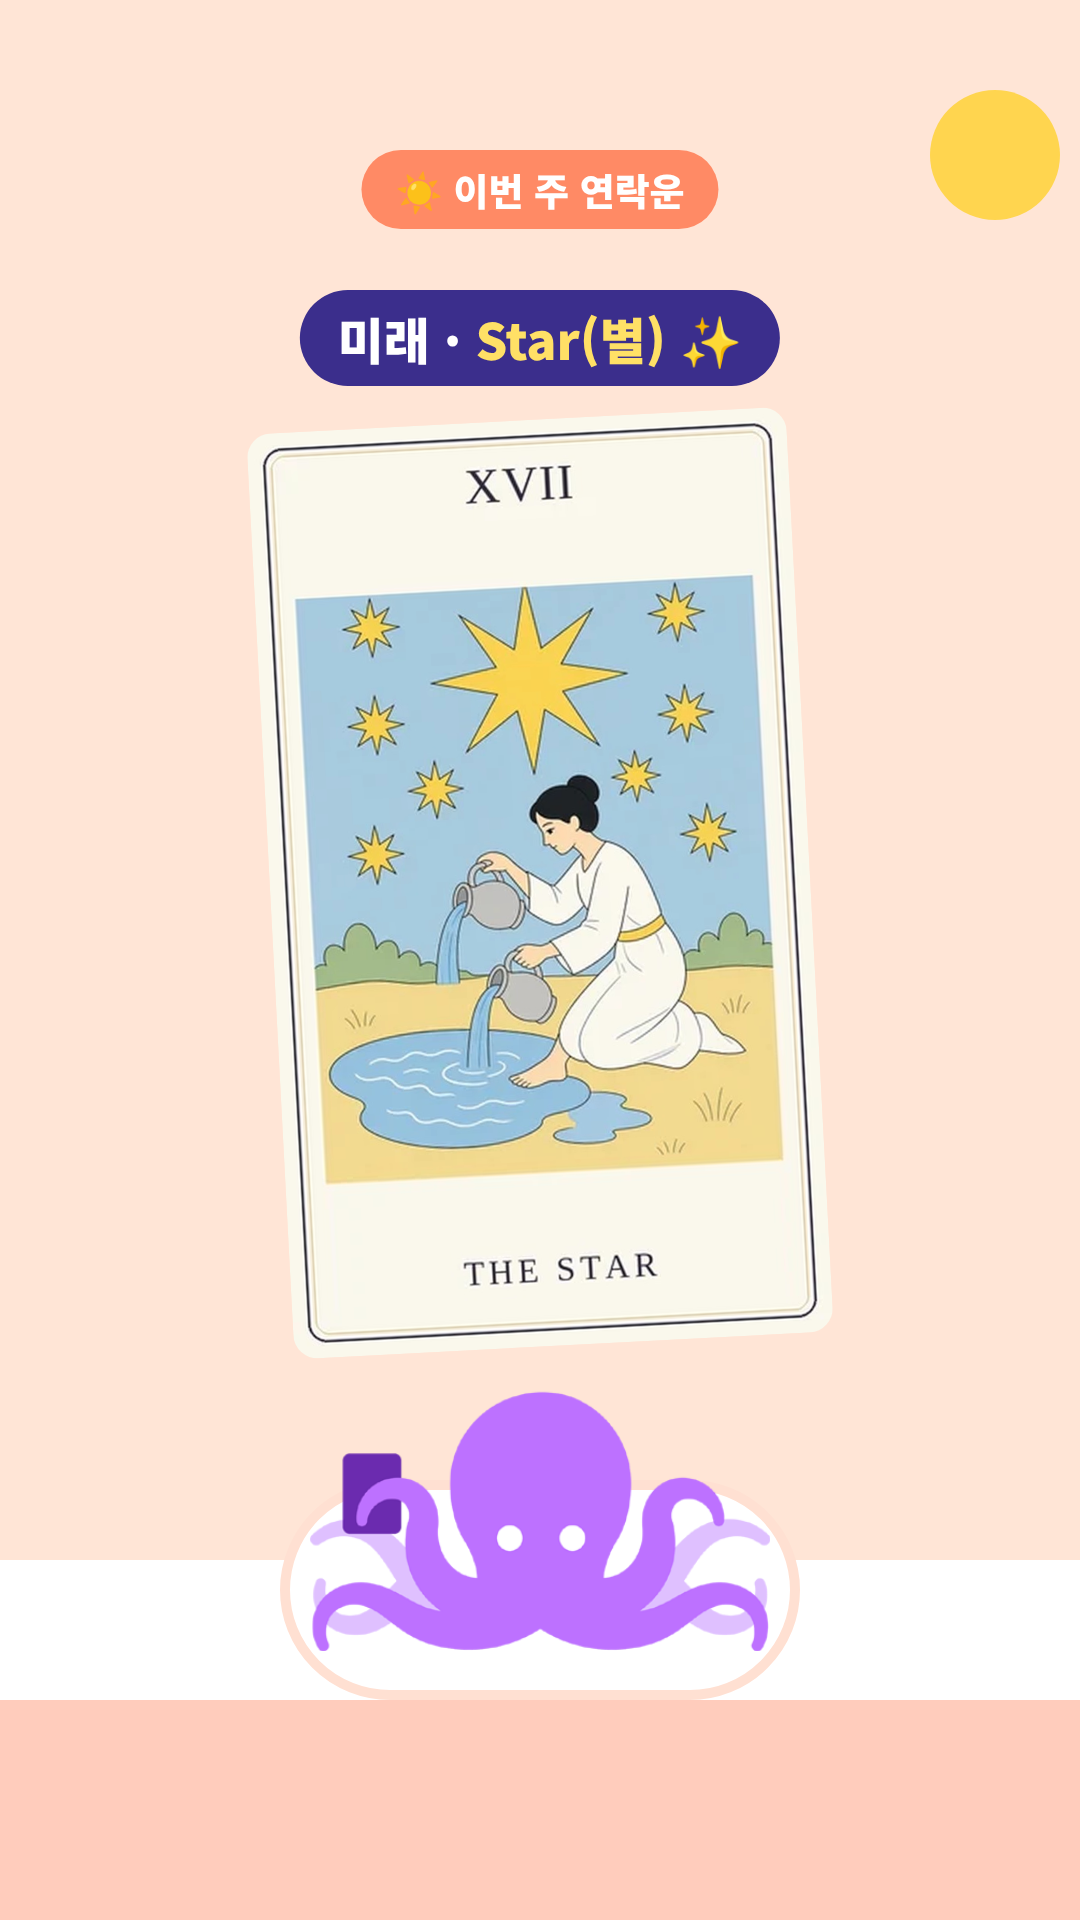
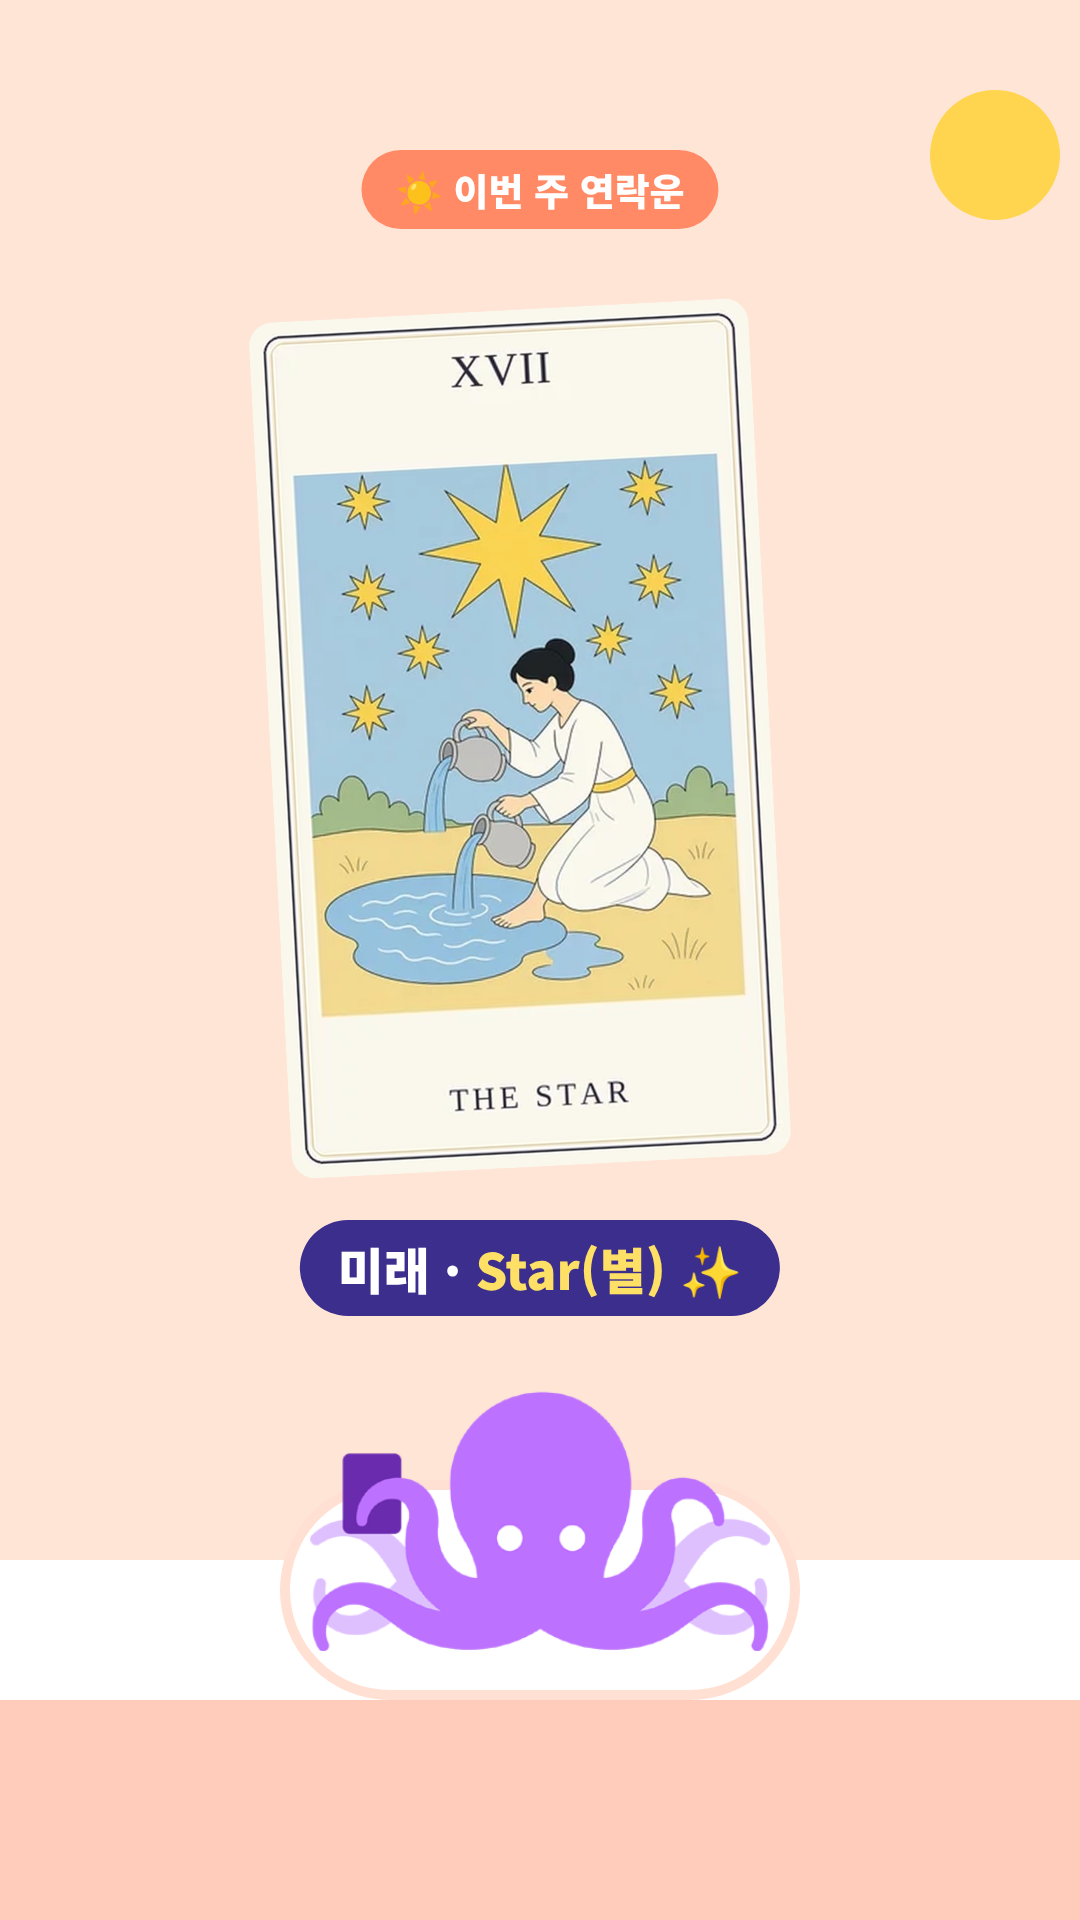
연락운 머리맡 알림 ③: 미래 표시를 카드 아래로
Claude-Session: https://claude.ai/code/session_01CejgdC5FKbbZMnpaYgrfgJ

Changed region(s): [[0.2444, 0.125, 0.7639, 0.7188]]

diff --git a/promo/src/reel_mcall_03_reveal.html b/promo/src/reel_mcall_03_reveal.html
@@ -23,8 +23,8 @@
 .phone .nt{margin-top:30px;background:#FFF;border-radius:22px;padding:16px;font-size:26px;font-weight:800;color:#3B2E8C;box-shadow:none;border:3px solid #FFD0BE}
 .sunw{position:absolute;left:760px;top:460px;width:200px;height:200px;border-radius:50%;background:#FFD54F}
 .sunw{left:930px;top:90px;width:130px;height:130px}
-.nm{position:absolute;left:50%;top:290px;translate:-50% 0;padding:12px 38px;background:#3B2E8C;border-radius:999px;font-size:50px;font-weight:900;color:#FFF;white-space:nowrap;z-index:6}.nm b{color:#FFE066}</style></head><body>
+.nm{position:absolute;left:50%;top:1220px;translate:-50% 0;padding:12px 38px;background:#3B2E8C;border-radius:999px;font-size:50px;font-weight:900;color:#FFF;white-space:nowrap;z-index:6}.nm b{color:#FFE066}</style></head><body>
 <div class="f" id="frame">
 <span class="bd">☀ 이번 주 연락운</span><div class="sunw"></div>
-<div class="cd" style="top:420px;width:540px"><img class="tcard" src="cards/tr17@2x.jpg" alt="Star(별)" style="border:0;border-radius:24px;background:none"></div><span class="nm">미래 · <b>Star(별)</b> ✨</span><div class="bed" style="top:1560px"></div><div class="pillow" style="top:1480px;left:280px"></div><div class="blanket" style="top:1700px"></div><img src="../../images/mm01.png" style="position:absolute;left:310px;top:1380px;width:460px;z-index:2">
+<div class="cd" style="top:310px;width:500px"><img class="tcard" src="cards/tr17@2x.jpg" alt="Star(별)" style="border:0;border-radius:24px;background:none"></div><span class="nm">미래 · <b>Star(별)</b> ✨</span><div class="bed" style="top:1560px"></div><div class="pillow" style="top:1480px;left:280px"></div><div class="blanket" style="top:1700px"></div><img src="../../images/mm01.png" style="position:absolute;left:310px;top:1380px;width:460px;z-index:2">
 </div></body></html>
